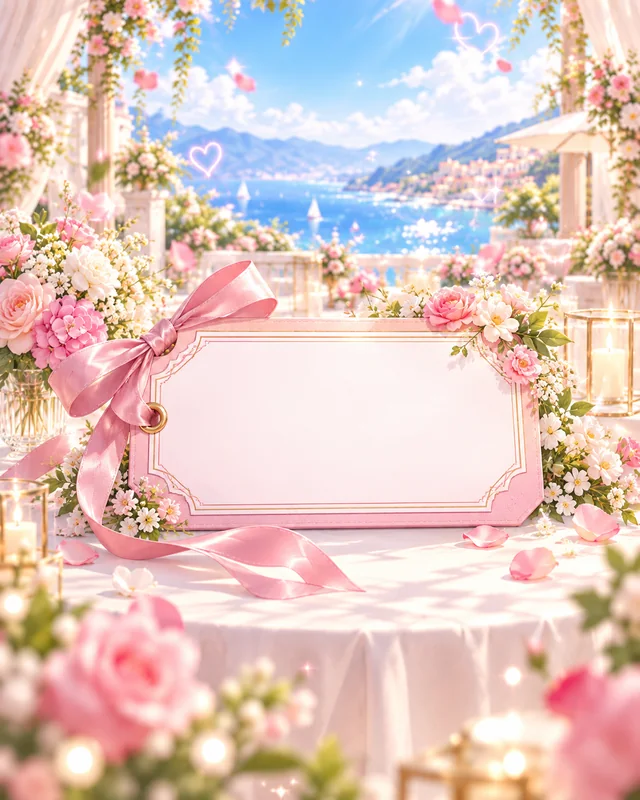
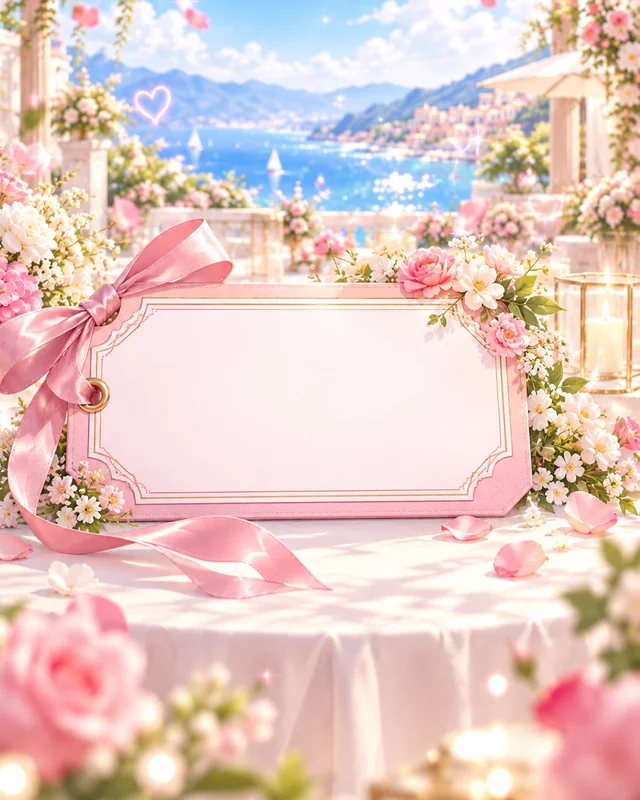
style(play): centre the name tag in the solo-nara result card

diff --git a/사주/play/solo-nara/app.js b/사주/play/solo-nara/app.js
@@ -104,7 +104,7 @@
   async function resolveResult() {
     if (busy || preview) return;
     busy = true; const current = generation;
-    new Image().src = './result-card.webp?v=1';
+    new Image().src = './result-card.webp?v=2';
     show(`<div class="loading"><p class="eyebrow">SOLO NARA</p><div class="name-card sealed-card small" aria-hidden="true">${silhouette(state.gender || 'female')}</div><h2>이름표를 열고 있어요.</h2><p class="muted">로그인 상태를 확인하고 있어요.</p></div>`, 'fade');
     try {
       if (!window.UMSHAuthSession) throw Error('auth-unavailable');
@@ -143,7 +143,7 @@
     const c = C.characters[data.type];
     if (!sample) track('result_view', { result_character: data.type });
     const robot = document.createElement('meta'); robot.name = 'robots'; robot.content = 'noindex'; document.head.appendChild(robot);
-    show(`<div class="reveal"><p class="eyebrow">${esc(C.copy.result.heading)}</p><div class="name-card revealing"><div class="name-flip"><div class="name-face back" aria-hidden="true">${silhouette(c.gender)}</div><div class="name-face front"><img class="card-art" src="./result-card.webp?v=1" width="640" height="800" alt=""><span class="tag-text"><small>SOLO NARA NAME</small><strong>${esc(c.name)}</strong></span></div></div></div><h1 class="result-title after">${esc(c.title)}</h1><p class="quote after">“${esc(c.oneLiner)}”</p><div class="keywords after">${c.keywords.map(k => `<span>#${esc(k)}</span>`).join('')}</div></div><div class="after-group"><p class="readout">${esc(c.description)}</p><div class="ticket"><div class="ticket-top"><span>나의 연애 스타일</span><span>✦ UMSH</span></div><div class="stats">${AXES.map(a => `<div class="stat"><div class="stat-label"><span>${esc(C.copy.result.axisLabels[a])}</span><b>${Math.round(data.scores[a])}<small> /100</small></b></div><div class="bar" role="meter" aria-label="${esc(C.copy.result.axisLabels[a])}" aria-valuemin="0" aria-valuemax="100" aria-valuenow="${Math.round(data.scores[a])}"><i style="width:${data.scores[a]}%"></i></div></div>`).join('')}</div></div><div class="pros-cons"><div><b>연애할 때 강점</b><p>${esc(c.strength)}</p></div><div><b>연애할 때 주의점</b><p>${esc(c.weakness)}</p></div></div><div class="tip"><b>솔로나라 한 줄 팁</b><p>${esc(c.tip)}</p></div>${matchCard('best', c.name, c.best, c.bestReason)}${matchCard('danger', c.name, c.danger, c.dangerReason)}<div class="bridge"><p>${lines(C.copy.result.fortuneBridge.replace('{name}', c.name))}</p><a class="primary result-cta" id="fortune" href="${esc(C.copy.fortuneCta.url)}">${esc(C.copy.fortuneCta.label)} ↗</a></div><div class="action-row"><button class="secondary" id="share">${esc(C.copy.result.share)} ↗</button><button class="secondary" id="restart">${esc(C.copy.result.retry)} ↻</button></div><button class="secondary invite-button" id="invite">친구에게 테스트 보내기 ↗</button><button class="small-button copy-link" id="copy-link">테스트 링크만 복사하기</button><div id="share-fallback"></div><details class="context"><summary>이 결과는 어떻게 나왔나요?</summary><p>8개 답변에 미리 정해 둔 점수를 더해 네 가지 성향을 계산하고, 가장 가까운 캐릭터를 골랐어요. 같은 답을 고르면 언제나 같은 결과가 나와요.</p><p>재미로 보는 성향 테스트이며 과학적 성격 진단이나 연애 예측이 아니에요.</p></details><p class="fine center">결과 공유에는 캐릭터 이름만 담겨요.<br>성별, 답변, 점수는 담기지 않아요.</p><p class="fine center disclaimer">${esc(C.copy.disclaimer)}</p></div>`, 'fade');
+    show(`<div class="reveal"><p class="eyebrow">${esc(C.copy.result.heading)}</p><div class="name-card revealing"><div class="name-flip"><div class="name-face back" aria-hidden="true">${silhouette(c.gender)}</div><div class="name-face front"><img class="card-art" src="./result-card.webp?v=2" width="640" height="800" alt=""><span class="tag-text"><small>SOLO NARA NAME</small><strong>${esc(c.name)}</strong></span></div></div></div><h1 class="result-title after">${esc(c.title)}</h1><p class="quote after">“${esc(c.oneLiner)}”</p><div class="keywords after">${c.keywords.map(k => `<span>#${esc(k)}</span>`).join('')}</div></div><div class="after-group"><p class="readout">${esc(c.description)}</p><div class="ticket"><div class="ticket-top"><span>나의 연애 스타일</span><span>✦ UMSH</span></div><div class="stats">${AXES.map(a => `<div class="stat"><div class="stat-label"><span>${esc(C.copy.result.axisLabels[a])}</span><b>${Math.round(data.scores[a])}<small> /100</small></b></div><div class="bar" role="meter" aria-label="${esc(C.copy.result.axisLabels[a])}" aria-valuemin="0" aria-valuemax="100" aria-valuenow="${Math.round(data.scores[a])}"><i style="width:${data.scores[a]}%"></i></div></div>`).join('')}</div></div><div class="pros-cons"><div><b>연애할 때 강점</b><p>${esc(c.strength)}</p></div><div><b>연애할 때 주의점</b><p>${esc(c.weakness)}</p></div></div><div class="tip"><b>솔로나라 한 줄 팁</b><p>${esc(c.tip)}</p></div>${matchCard('best', c.name, c.best, c.bestReason)}${matchCard('danger', c.name, c.danger, c.dangerReason)}<div class="bridge"><p>${lines(C.copy.result.fortuneBridge.replace('{name}', c.name))}</p><a class="primary result-cta" id="fortune" href="${esc(C.copy.fortuneCta.url)}">${esc(C.copy.fortuneCta.label)} ↗</a></div><div class="action-row"><button class="secondary" id="share">${esc(C.copy.result.share)} ↗</button><button class="secondary" id="restart">${esc(C.copy.result.retry)} ↻</button></div><button class="secondary invite-button" id="invite">친구에게 테스트 보내기 ↗</button><button class="small-button copy-link" id="copy-link">테스트 링크만 복사하기</button><div id="share-fallback"></div><details class="context"><summary>이 결과는 어떻게 나왔나요?</summary><p>8개 답변에 미리 정해 둔 점수를 더해 네 가지 성향을 계산하고, 가장 가까운 캐릭터를 골랐어요. 같은 답을 고르면 언제나 같은 결과가 나와요.</p><p>재미로 보는 성향 테스트이며 과학적 성격 진단이나 연애 예측이 아니에요.</p></details><p class="fine center">결과 공유에는 캐릭터 이름만 담겨요.<br>성별, 답변, 점수는 담기지 않아요.</p><p class="fine center disclaimer">${esc(C.copy.disclaimer)}</p></div>`, 'fade');
     on('fortune', () => track('fortune'));
     on('restart', () => { track('restart'); clear(); if (preview) location.href = './'; else home(); });
     on('share', () => share(data.type));

diff --git a/사주/play/solo-nara/style.css b/사주/play/solo-nara/style.css
@@ -124,9 +124,9 @@ p{margin:0 0 16px}.muted{color:var(--muted);font-size:14px}.center{text-align:ce
 .name-flip .name-face{position:absolute;inset:0;display:flex;flex-direction:column;align-items:center;justify-content:center;gap:4px;border:1px solid var(--line);border-radius:26px;backface-visibility:hidden;-webkit-backface-visibility:hidden;background:linear-gradient(170deg,#fff,var(--blush));box-shadow:0 14px 40px rgba(236,79,154,.2);overflow:hidden}
 .name-flip .back .sil{width:140px}
 .name-flip .front{transform:rotateY(180deg);border-color:var(--pink-2);box-shadow:0 0 0 2px var(--pink-2),0 16px 44px rgba(236,79,154,.3)}
-/* Shared result art: a blank pink name tag; the name is laid onto its pale panel (x 28~79%, y 43~63%). */
+/* Shared result art: a blank pink name tag; the name is laid onto its pale panel (x 22~78%, y 39~61%, art cropped so the panel is centred). */
 .name-flip .front .card-art{position:absolute;inset:0;width:100%;height:100%;object-fit:cover}
-.name-flip .tag-text{position:absolute;left:28%;width:51%;top:43%;height:20%;display:flex;flex-direction:column;align-items:center;justify-content:center;gap:2px}
+.name-flip .tag-text{position:absolute;left:22%;width:56%;top:39%;height:22%;display:flex;flex-direction:column;align-items:center;justify-content:center;gap:2px}
 .name-flip .front small{font-size:8px;letter-spacing:1.4px;color:var(--muted)}
 .name-flip .front strong{font-size:44px;line-height:1.05;letter-spacing:-1.5px;background:linear-gradient(90deg,var(--pink),var(--lav));-webkit-background-clip:text;background-clip:text;color:transparent}
 .result-title{font-size:26px;margin:4px 0 8px}

diff --git a/사주/play/solo-nara/index.html b/사주/play/solo-nara/index.html
@@ -21,14 +21,14 @@
   <meta name="twitter:description" content="연애 예능에 나간다면 나는 어떤 캐릭터일까? 10번의 선택으로 알아봐!">
   <meta name="twitter:image" content="https://umsh.kr/play/solo-nara/share-banner-v1.jpg">
   <meta name="twitter:image:alt" content="운명상회 솔로나라 캐릭터 테스트">
-  <link rel="stylesheet" href="./style.css?v=20261006f">
+  <link rel="stylesheet" href="./style.css?v=20261006g">
   <script defer src="https://cdn.jsdelivr.net/npm/@supabase/supabase-js@2/dist/umd/supabase.min.js"></script>
   <script defer src="/js/umsh-auth-session.js"></script>
   <script defer src="/js/common-auth-return.js"></script>
   <script defer src="./telemetry.js?v=20261006a"></script>
   <script defer src="/js/umsh-track.js?v=20261006-solo-nara"></script>
   <script defer src="./content.js?v=20261006a"></script>
-  <script defer src="./app.js?v=20261006e"></script>
+  <script defer src="./app.js?v=20261006f"></script>
 </head>
 <body>
   <div class="shell">

diff --git a/사주/play/solo-nara/preview.html b/사주/play/solo-nara/preview.html
@@ -6,9 +6,9 @@
   <title>결과 디자인 미리보기 | 운명상회</title><meta name="robots" content="noindex,nofollow">
   <meta name="theme-color" content="#fde9f4"><meta name="referrer" content="same-origin">
   <link rel="canonical" href="https://umsh.kr/play/solo-nara/">
-  <link rel="stylesheet" href="./style.css?v=20261006f">
+  <link rel="stylesheet" href="./style.css?v=20261006g">
   <script defer src="./content.js?v=20261006a"></script>
-  <script defer src="./app.js?v=20261006e"></script>
+  <script defer src="./app.js?v=20261006f"></script>
 </head>
 <body>
   <div class="shell">
